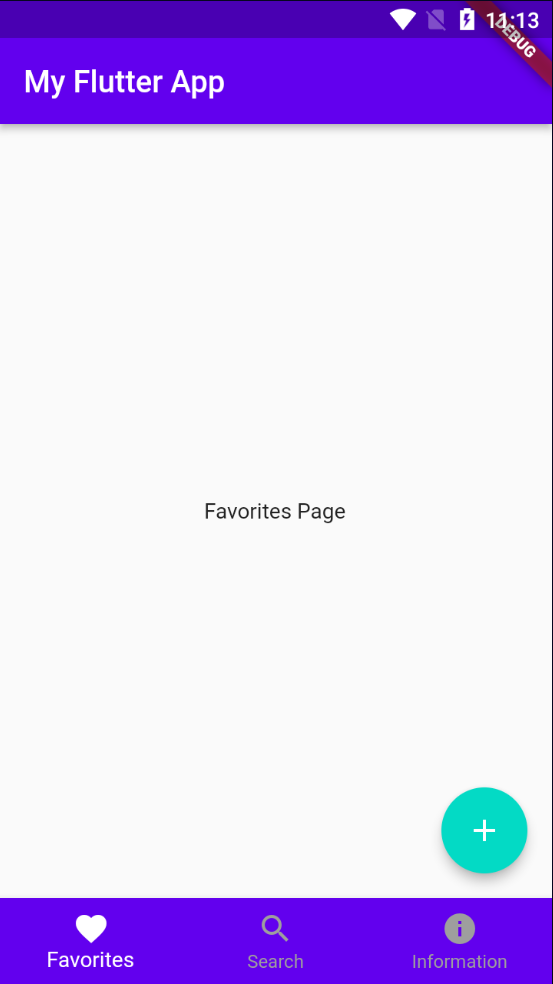
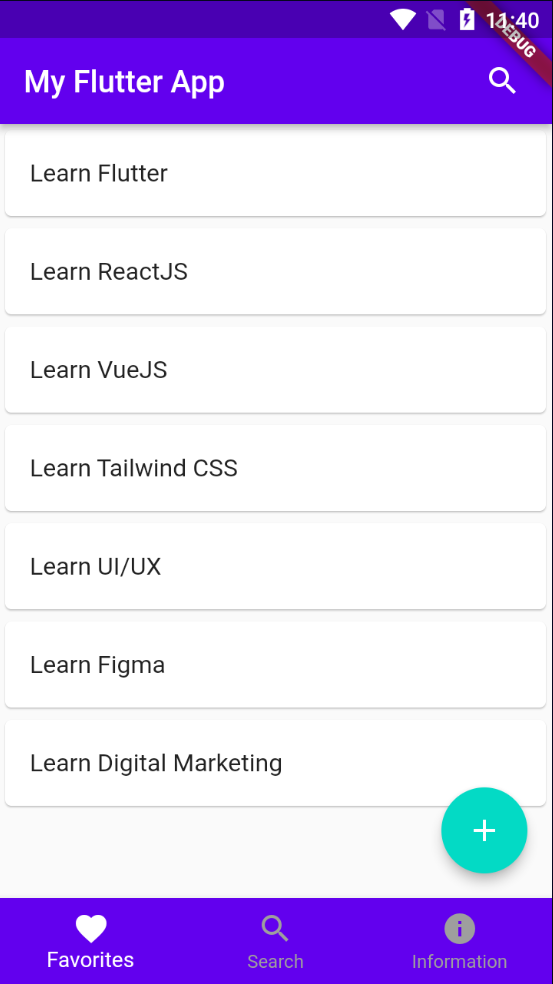
Adding listview to the Favorites Page

diff --git a/13_Platform Widget/praktikum/eksplorasi/lib/main.dart b/13_Platform Widget/praktikum/eksplorasi/lib/main.dart
@@ -23,10 +23,50 @@ class _MyAppState extends State<MyApp> {
 
   int _selectedIndex = 0;
 
-  List bodyContent = [
-    'Favorites Page',
-    'Search Page',
-    'Information Page'
+  final _listView = ListView(
+    children: const [
+      Card(
+        child: ListTile(
+          title: Text('Learn Flutter'),
+        ),
+      ),
+      Card(
+        child: ListTile(
+          title: Text('Learn ReactJS'),
+        ),
+      ),
+      Card(
+        child: ListTile(
+          title: Text('Learn VueJS'),
+        ),
+      ),
+      Card(
+        child: ListTile(
+          title: Text('Learn Tailwind CSS'),
+        ),
+      ),
+      Card(
+        child: ListTile(
+          title: Text('Learn UI/UX'),
+        ),
+      ),
+      Card(
+        child: ListTile(
+          title: Text('Learn Figma'),
+        ),
+      ),
+      Card(
+        child: ListTile(
+          title: Text('Learn Digital Marketing'),
+        ),
+      ),
+    ],
+  );
+
+  List<Widget> bodyContent = [
+    const Text('Favorites Page'),
+    const Text('Search Page'),
+    const Text('Information Page'),
   ];
 
   void _onItemTapped(int index) {
@@ -34,6 +74,14 @@ class _MyAppState extends State<MyApp> {
       _selectedIndex = index;
     });
   }
+
+  @override
+  void initState() {
+    super.initState();
+    bodyContent[0] = _listView;
+  }
+
+
 
   @override
   Widget build(BuildContext context) {
@@ -48,13 +96,13 @@ class _MyAppState extends State<MyApp> {
             },
             child: const Icon(
               Icons.search,
-              color: Colors.white,
+              color: Colors.grey,
             ),
           )
         ],
       ),
       body: Center(
-        child: Text(bodyContent.elementAt(_selectedIndex)),
+        child: bodyContent.elementAt(_selectedIndex),
       ),
       bottomNavigationBar: BottomNavigationBar(
         backgroundColor: const Color(0xFF6200EE),
@@ -88,7 +136,8 @@ class _MyAppState extends State<MyApp> {
           
         },
         child: const Icon(
-          Icons.add
+          Icons.add,
+          color: Colors.black,
         ),
       ),
     );
